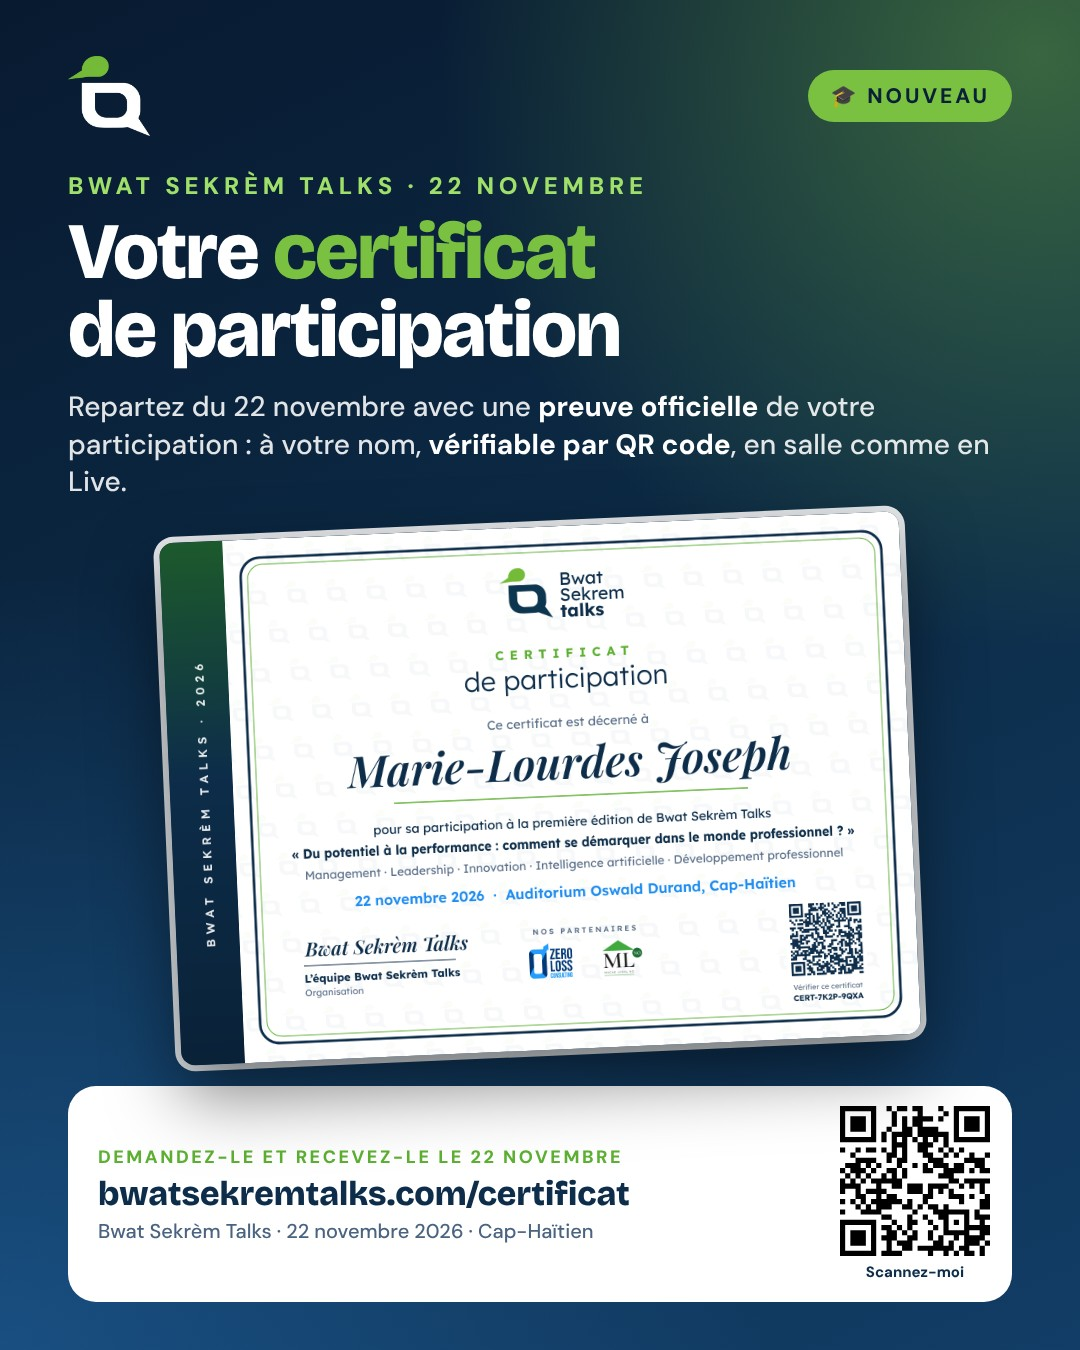
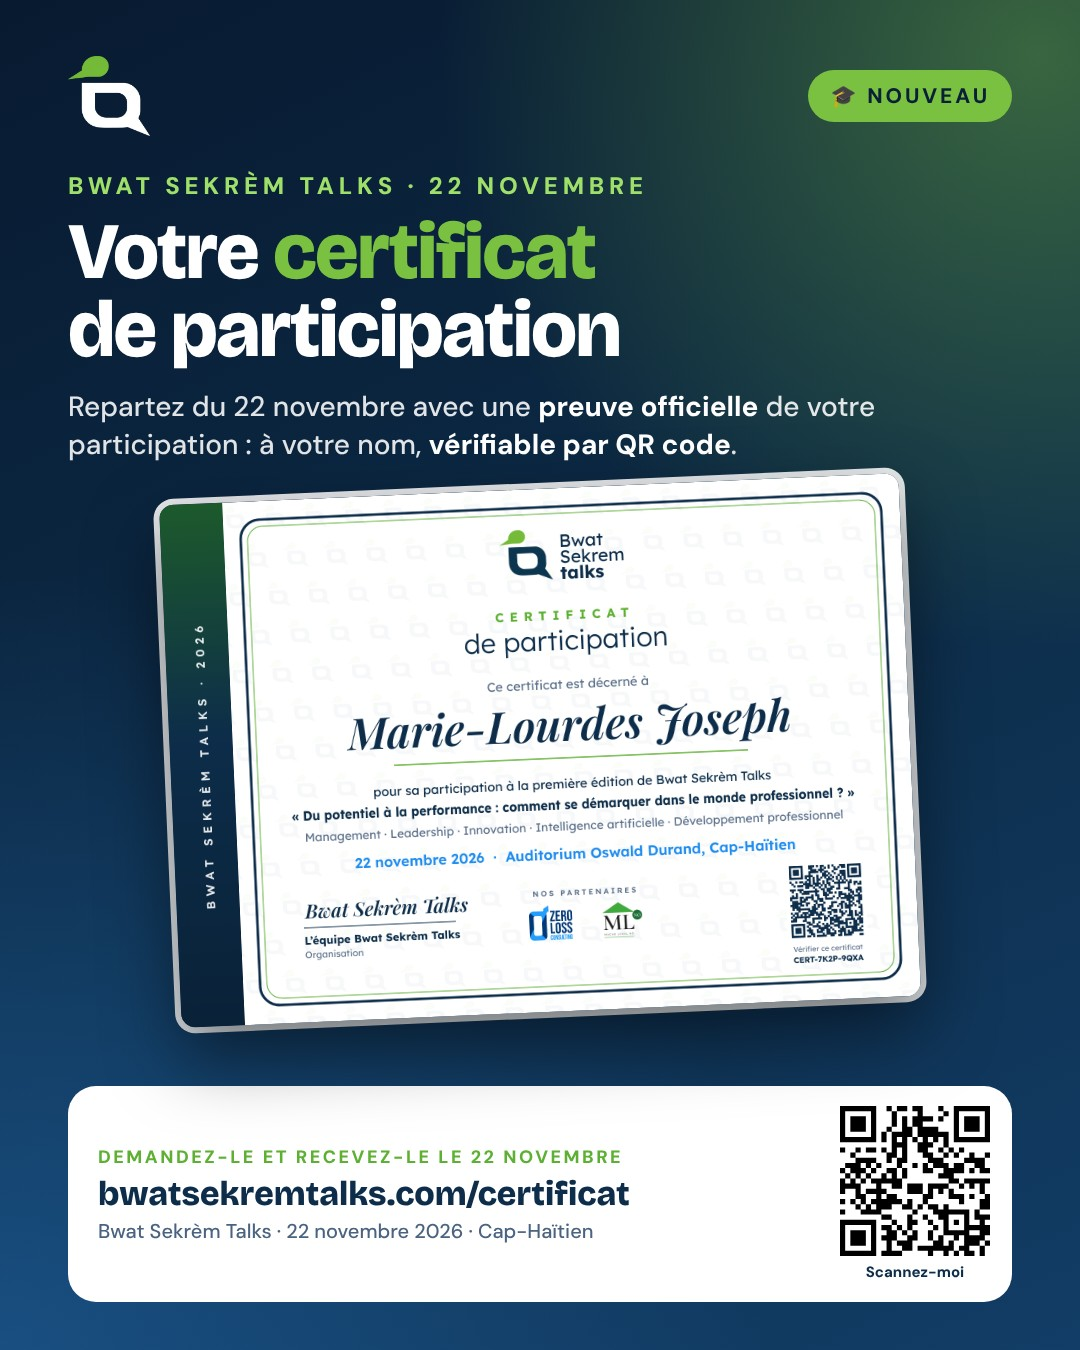
Affiches et textes certificat : sans mention du Live, nouveaux textes de publication
Claude-Session: https://claude.ai/code/session_0122zvvAsBzCm2JWrz3LrK24

Changed region(s): [[0.1222, 0.3111, 0.9167, 0.84], [0.0611, 0.3422, 0.1222, 0.3733]]

diff --git a/crm/index.html b/crm/index.html
@@ -302,47 +302,50 @@ const sb = window.supabase.createClient('https://nltlgytehikguydcdhyy.supabase.c
 const EDITION = '2026-11-22-cap-haitien';
 const $ = (id) => document.getElementById(id);
 const LIB = [
-  { t: '🎓 Certificat — 1. Annonce', w: 'Pour lancer la communication sur le certificat', img: [['Affiche annonce (1080×1350)', './afiches/certificat-annonce.jpg']], v: `🎓 NOUVEAU — Votre certificat de participation Bwat Sekrèm Talks !
+  { t: '🎓 Certificat — 1. Annonce', w: 'Pour lancer la communication sur le certificat', img: [['Affiche annonce (1080×1350)', './afiches/certificat-annonce.jpg']], v: `🎓 NOUVEAU : votre certificat de participation Bwat Sekrèm Talks !
 
-Repartez du 22 novembre avec une preuve officielle de votre participation : à votre nom, vérifiable par QR code, que vous soyez en salle ou en Live.
+Le 22 novembre, repartez avec une preuve officielle de votre participation à la 1re édition de Bwat Sekrèm Talks : à votre nom et vérifiable par QR code.
+
+Un vrai plus pour votre CV, votre profil LinkedIn et vos prochains entretiens 💼
 
 👉 Demandez-le dès maintenant et recevez-le le jour de l’événement :
 https://bwatsekremtalks.com/certificat
 
-#BwatSekremTalks #BST2026` },
-  { t: '🎓 Certificat — 2. Ce qu’il dit de vous', w: 'Deuxième publication', img: [['Affiche « dit de vous » (1080×1350)', './afiches/certificat-dit.jpg']], v: `Ce que votre certificat Bwat Sekrèm Talks dit de vous 🎓
+#BwatSekremTalks #BST2026 #CapHaïtien
+Apprendre. Inspirer. Construire ensemble.` },
+  { t: '🎓 Certificat — 2. Ce qu’il dit de vous', w: 'Deuxième publication', img: [['Affiche « dit de vous » (1080×1350)', './afiches/certificat-dit.jpg']], v: `Un certificat, c’est bien plus qu’une feuille 🎓
 
-🚀 Vous investissez en vous
-🧭 Vous suivez les sujets qui comptent : management, leadership, innovation, IA
+Votre certificat Bwat Sekrèm Talks dit de vous que :
+🚀 Vous investissez en vous et en votre carrière
+🧭 Vous suivez les sujets qui comptent : management, leadership, innovation, intelligence artificielle
 🤝 Vous faites partie d’un réseau de professionnels et d’entrepreneurs du Nord
-🔐 C’est vérifiable : un employeur confirme votre participation en un clic
+🔐 Votre participation est vérifiable : un employeur la confirme en un clic grâce au QR code
 
 👉 Demandez le vôtre et recevez-le le 22 novembre :
 https://bwatsekremtalks.com/certificat
 
-#BwatSekremTalks #BST2026` },
-  { t: '🎓 Certificat — 3. Valorisez votre profil', w: 'Troisième publication', img: [['Affiche « profil pro » (1080×1350)', './afiches/certificat-profil.jpg']], v: `Valorisez votre profil pro avec votre certificat Bwat Sekrèm Talks 💼
+#BwatSekremTalks #BST2026 #DéveloppementProfessionnel` },
+  { t: '🎓 Certificat — 3. Valorisez votre profil', w: 'Troisième publication', img: [['Affiche « profil pro » (1080×1350)', './afiches/certificat-profil.jpg']], v: `Votre certificat travaille pour vous, bien après l’événement 💼
 
-✅ Ajoutez-le à LinkedIn en un clic
-✅ Mettez-le sur votre CV
-✅ Partagez ce que vous avez appris
-✅ Parlez-en en entretien
-
-Votre certificat travaille pour vous bien après l’événement.
+Avec votre certificat Bwat Sekrèm Talks :
+✅ Ajoutez-le à votre profil LinkedIn en un clic
+✅ Mettez-le en valeur sur votre CV
+✅ Partagez les idées que vous avez retenues
+✅ Parlez-en en entretien : une réponse concrète à « Comment vous formez-vous ? »
 
 👉 Demandez-le dès maintenant et recevez-le le 22 novembre :
 https://bwatsekremtalks.com/certificat
 
-#BwatSekremTalks #BST2026` },
+#BwatSekremTalks #BST2026 #CarrièreHaïti` },
   { t: '🎓 Certificat — 4. Faites-le préparer', w: 'Les jours qui précèdent le 22', img: [['Affiche « demandez-le » (1080×1350)', './afiches/certificat-prepare.jpg']], v: `⏳ Ne l’attendez pas : faites préparer votre certificat dès maintenant !
 
 1⃣ Demandez la préparation sur https://bwatsekremtalks.com/certificat
 2⃣ Recevez votre code sur WhatsApp
-3⃣ Le 22 novembre, récupérez votre certificat : en salle dès votre arrivée, ou en Live avec le mot secret
+3⃣ Le 22 novembre, votre certificat vous attend à l’événement 🎓
 
-Il vous attend le jour de l’événement 🎓
+Plus tôt vous le demandez, plus vite il est prêt.
 
-#BwatSekremTalks #BST2026` },
+#BwatSekremTalks #BST2026 #CapHaïtien` },
   { t: '⏳ La liste d’attente est ouverte', w: 'Maintenant — réseaux sociaux, statut WhatsApp, groupes', img: [['Affiche publication (1080×1350)', './afiches/liste-attente-post.jpg'], ['Affiche story (1080×1920)', './afiches/liste-attente-story.jpg']], v: `⏳ COMPLET… mais la liste d’attente est ouverte !
 
 Vous avez été très nombreux à réserver votre place pour Bwat Sekrèm Talks : les 300 places sont prises. Merci ! 🙏
